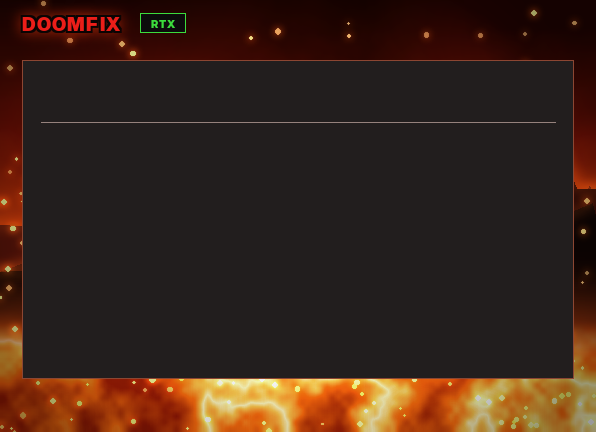
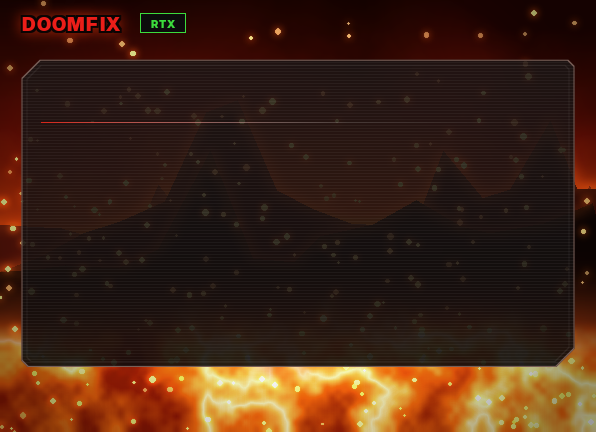
Redraw the installer panels and add the control artwork
The panels get the approved look: chamfered corners, a thin warm frame,
a see-through dark gradient with faint scanlines and an inner line. The
fire and the logo are unchanged. The heading line of the inner pages is
a red gradient; the welcome and finish pages get theirs as separate
pictures (red and green).

New pictures in installer/assets/ui, one set per background size: the
hexagonal buttons in five states without text, the path field and the
check boxes with a red tick. The installer script starts using them in
the next commit.

diff --git a/installer/assets/generate.py b/installer/assets/generate.py
@@ -1,4 +1,4 @@
-"""Generates the installer artwork: wizard backgrounds and the "DF" icon.
+"""Generates the installer artwork: wizard backgrounds, buttons and other controls, and the "DF" icon.
 
 Everything is drawn procedurally (Pillow + numpy) from fixed random seeds, so every run produces the same
 images; no third-party artwork is used. The only external asset is the Inter Display Black font (SIL OFL 1.1,
@@ -7,11 +7,16 @@ see fonts/OFL.txt), which is baked into the images and is not shipped in the ins
 Run it through scripts\\build_assets.ps1, which sets up the Python environment. Output, next to this file:
   back_welcome_<w>x<h>.png  welcome and finish pages: fire, large DOOMFIX logo and RTX tag, the content panel
   back_inner_<w>x<h>.png    other pages: fire, small DOOMFIX logo and RTX tag at the top left, the content panel
+                            with its red heading line
+  ui/<name>_<w>.png         for each background width w: the buttons (button_*, browse_*: normal, hover, pressed,
+                            focus, disabled; without text), the path field (edit), the check boxes (check_on_*,
+                            check_off_*) and the heading lines of the welcome and finish pages (line_red, line_green)
   doomfix.ico               the icon of setup.exe and doomfix_launcher.exe, 16 to 256 px
 
 The background sizes are the wizard image areas of Inno Setup 6.7 at 100, 125, 150, 175 and 200% DPI (see the
-WizardBackImageFile help topic); Setup picks the best match. The layout uses the coordinates of the 497x360
-design (installer/doomfix.iss places the panels and controls with the same numbers).
+WizardBackImageFile help topic); Setup picks the best match. The panels use the coordinates of the 497x360
+design, the controls pixels of the 596x432 client area at 100% (installer/doomfix.iss places everything with the
+same numbers).
 """
 import math
 import random
@@ -189,42 +194,212 @@ def tag(img, x_center, y, size, s, text="RTX"):
     return img
 
 
-# Layout shared with the "Look" part of installer/doomfix.iss (design units). The panels are part of the image:
-# the custom style draws transparent controls over the window background, so a panel made of a control would not
-# show behind every control.
-PANEL = (34, 30, 30)
-PANEL_BORDER = (140, 70, 50)
-SEPARATOR = (150, 130, 125)
-WELCOME_PANEL = (40, 104, 457, 306)   # welcome and finish pages
+# Layout shared with the "Look" part of installer/doomfix.iss. Two kinds of units: design units of the 497x360
+# layout (panels, labels; s = pixels per unit) and pixels of the window at 100% DPI, whose client area is 596x432
+# (button, field and chamfer sizes; p = pixels per pixel at 100%). The panels are part of the background image: the
+# custom style draws transparent controls over the window background, so a panel made of a control would not show
+# behind every control.
+WELCOME_PANEL = (40, 104, 455, 279)   # welcome and finish pages
 WELCOME_SEPARATOR_Y = 144
-INNER_PANEL = (18, 50, 479, 316)      # all other pages
+INNER_PANEL = (18, 50, 479, 306)      # all other pages
 INNER_SEPARATOR_Y = 102
 PANEL_PADDING = 16
 
+BORDER = (0x7A, 0x5F, 0x57)
+RED = (0xD8, 0x26, 0x1A)
+DARK_RED = (0x8E, 0x14, 0x0C)
+GREEN_LINE = (0x3D, 0xDC, 0x56)
+SS = 4                                # supersampling of the antialiased shapes
 
-def panel(img, box, sep_y, s):
-    d = ImageDraw.Draw(img)
-    lw = max(1, round(s))
-    x0, y0, x1, y1 = (round(v * s) for v in box)
-    d.rectangle([x0, y0, x1 - 1, y1 - 1], fill=PANEL, outline=PANEL_BORDER, width=lw)
-    sy = round(sep_y * s)
-    d.line([x0 + round(PANEL_PADDING * s), sy, x1 - round(PANEL_PADDING * s), sy], fill=SEPARATOR, width=lw)
-    return img
+
+def chamfer_points(x0, y0, x1, y1, tl, tr, br, bl):
+    """A rectangle with its corners cut at 45 degrees; tl..bl are the cut lengths along each side."""
+    return [(x0 + tl, y0), (x1 - tr, y0), (x1, y0 + tr), (x1, y1 - br), (x1 - br, y1), (x0 + bl, y1),
+            (x0, y1 - bl), (x0, y0 + tl)]
+
+
+def shape_mask(size, points, inset=0.0):
+    """Antialiased coverage (0..1, float array) of a polygon, optionally shrunk by `inset` pixels."""
+    w, h = size
+    k = int(round(inset * SS))
+    pad = k + SS  # empty margin, so that the shrinking also works where the shape touches the image edge
+    m = Image.new("L", (w * SS + 2 * pad, h * SS + 2 * pad), 0)
+    ImageDraw.Draw(m).polygon([(x * SS + pad, y * SS + pad) for x, y in points], fill=255)
+    if k > 0:
+        m = m.filter(ImageFilter.MinFilter(2 * k + 1))
+    m = m.crop((pad, pad, pad + w * SS, pad + h * SS))
+    return np.asarray(m.resize((w, h), Image.BOX), float) / 255
+
+
+def outline_mask(size, points, width):
+    """The band of `width` pixels just inside the polygon's edge."""
+    return np.clip(shape_mask(size, points) - shape_mask(size, points, width), 0, 1)
+
+
+def over(base, color, alpha):
+    """Composites a color (RGB tuple or HxWx3 array) with per-pixel alpha (HxW) over an RGB float array."""
+    a = alpha[..., None]
+    return base * (1 - a) + np.asarray(color, float) * a
+
+
+def scanlines(h, w, p, y0=0):
+    """1 = row of a scanline: 1 px lines every 3 px at 100%, scaled."""
+    step = max(2, round(3 * p))
+    lh = max(1, round(p))
+    rows = ((np.arange(h) - y0) % step) < lh
+    return np.repeat(rows[:, None], w, axis=1).astype(float)
+
+
+def vgradient(h, w, top, bottom, y0=0, y1=None):
+    """HxWx3 colors from `top` at row y0 to `bottom` at row y1."""
+    y1 = h - 1 if y1 is None else y1
+    t = np.clip((np.arange(h) - y0) / max(1, y1 - y0), 0, 1)[:, None, None]
+    col = np.asarray(top, float) * (1 - t) + np.asarray(bottom, float) * t
+    return np.repeat(col, w, axis=1)
+
+
+def panel(img, box, s, p):
+    """Dark see-through panel: chamfered corners (18 px top left and bottom right, 6 px elsewhere), 1 px frame,
+    vertical gradient, faint scanlines and a faint inner line 5 px from the edge."""
+    w, h = img.size
+    x0, y0, x1, y1 = (v * s for v in box)
+    big, small = 18 * p, 6 * p
+    lw = max(1, round(p))
+    pts = chamfer_points(x0, y0, x1, y1, big, small, big, small)
+    fill = shape_mask((w, h), pts)
+    base = np.asarray(img, float)
+    ya, yb = int(y0), int(y1)
+    color = vgradient(h, w, (28, 22, 21), (16, 12, 12), ya, yb)
+    alpha = (0.86 + 0.04 * np.clip((np.arange(h) - ya) / max(1, yb - ya), 0, 1))[:, None]
+    base = over(base, color, fill * alpha)
+    base = over(base, (255, 255, 255), fill * scanlines(h, w, p, ya) * 0.045)
+    d = 5 * p
+    inner = chamfer_points(x0 + d, y0 + d, x1 - d, y1 - d, 14 * p, 4 * p, 14 * p, 4 * p)
+    base = over(base, (255, 255, 255), outline_mask((w, h), inner, lw) * 0.06)
+    base = over(base, BORDER, outline_mask((w, h), pts, lw))
+    return Image.fromarray(base.clip(0, 255).astype(np.uint8))
+
+
+def separator_line(length, height, start):
+    """RGBA line under a heading: `start` color to faint white at 60% of the length, then fading out."""
+    t = np.linspace(0, 1, length)
+    k = np.clip(t / 0.6, 0, 1)[:, None]
+    rgb = np.asarray(start, float) * (1 - k) + np.array([255.0, 255, 255]) * k
+    a = np.where(t <= 0.6, 1 - 0.88 * np.clip(t / 0.6, 0, 1), 0.12 * (1 - (t - 0.6) / 0.4))
+    row = np.concatenate([rgb, (a * 255)[:, None]], axis=1)
+    return Image.fromarray(np.repeat(row[None], height, axis=0).clip(0, 255).astype(np.uint8), "RGBA")
+
+
+def separator_geometry(box, sep_y, s, p):
+    x0, _, x1, _ = box
+    left = round((x0 + PANEL_PADDING) * s)
+    return left, round(sep_y * s), round((x1 - PANEL_PADDING) * s) - left, max(1, round(p))
 
 
 def background(kind, w, h):
-    s = w / BASE_W
+    s, p = w / BASE_W, w / 596
     if kind == "welcome":
+        # The heading line is not part of this image: it is red on the welcome page and green on the finish page
+        # (ui/line_*.png, placed by installer/doomfix.iss).
         img = hellscape(w, h, seed=7)
         img = logo(img, "DOOMFIX", BASE_W / 2, 14, 34, s, center=True)
         img = tag(img, BASE_W / 2, 60, 11, s)
-        img = panel(img, WELCOME_PANEL, WELCOME_SEPARATOR_Y, s)
+        img = panel(img, WELCOME_PANEL, s, p)
     else:
         img = hellscape(w, h, seed=19)
         img = logo(img, "DOOMFIX", 18, 10, 16, s, stroke=5)
         img = tag(img, 136, 11, 9, s)
-        img = panel(img, INNER_PANEL, INNER_SEPARATOR_Y, s)
+        img = panel(img, INNER_PANEL, s, p)
+        x, y, length, lh = separator_geometry(INNER_PANEL, INNER_SEPARATOR_Y, s, p)
+        img = img.convert("RGBA")
+        img.alpha_composite(separator_line(length, lh, RED), (x, y))
+        img = img.convert("RGB")
     return img
+
+
+# --- Buttons and the path field ------------------------------------------------------------------
+# Drawn without text; installer/doomfix.iss writes the caption on them at run time (the captions depend on the
+# language and the page). One set per background size, named after the background width.
+
+BUTTON_W, BROWSE_W, BUTTON_H = 104, 96, 34
+EDIT_W = 410                          # inner page content width (514 px) - Browse - 8 px gap
+BUTTON_STATES = ("normal", "hover", "pressed", "focus", "disabled")
+
+
+def button_image(w, h, p, state):
+    """A stretched hexagon: the left and right sides meet in a point 10 px deep."""
+    d = 10 * p
+    pts = [(d, 0), (w - d, 0), (w, h / 2), (w - d, h), (d, h), (0, h / 2)]
+    lw = max(1, round(p))
+    fill = shape_mask((w, h), pts)
+    base = np.zeros((h, w, 3))
+    if state == "hover":
+        base = vgradient(h, w, RED, DARK_RED)
+        border = (0xFF, 0xB0, 0x8A)
+    elif state == "pressed":
+        base[:] = DARK_RED
+        border = (0xFF, 0xB0, 0x8A)
+    else:
+        base = vgradient(h, w, (0x2C, 0x24, 0x23), (0x1A, 0x15, 0x15))
+        border = (0xF0, 0xE6, 0xE2) if state == "focus" else BORDER
+    base = over(base, (255, 255, 255), scanlines(h, w, p) * 0.045)
+    base = over(base, border, np.clip(outline_mask((w, h), pts, lw) / np.maximum(fill, 1e-6), 0, 1))
+    alpha = fill * (0.45 if state == "disabled" else 1.0)
+    rgba = np.concatenate([base, (alpha * 255)[..., None]], axis=2)
+    return Image.fromarray(rgba.clip(0, 255).astype(np.uint8), "RGBA")
+
+
+def edit_frame(w, h, p):
+    """The path field: 1 px frame, 8 px chamfers at the top left and bottom right, dark fill."""
+    c = 8 * p
+    pts = chamfer_points(0, 0, w, h, c, 0, c, 0)
+    fill = shape_mask((w, h), pts)
+    base = np.zeros((h, w, 3))
+    base[:] = (0x12, 0x0E, 0x0E)
+    base = over(base, BORDER, np.clip(outline_mask((w, h), pts, max(1, round(p))) / np.maximum(fill, 1e-6), 0, 1))
+    rgba = np.concatenate([base, (fill * 255)[..., None]], axis=2)
+    return Image.fromarray(rgba.clip(0, 255).astype(np.uint8), "RGBA")
+
+
+CHECK_SIZE = 16
+
+
+def check_box(n, p, checked, state):
+    """A check box: dark square with a 1 px frame, a red tick when checked."""
+    lw = max(1, round(p))
+    pts = [(0, 0), (n, 0), (n, n), (0, n)]
+    fill = shape_mask((n, n), pts)
+    base = np.zeros((n, n, 3))
+    base[:] = (0x12, 0x0E, 0x0E)
+    border = {"hover": (0xFF, 0xB0, 0x8A), "focus": (0xF0, 0xE6, 0xE2)}.get(state, BORDER)
+    if checked:
+        tick = Image.new("L", (n * SS, n * SS), 0)
+        k = n * SS / 16
+        ImageDraw.Draw(tick).line([(3.5 * k, 8.5 * k), (6.5 * k, 11.5 * k), (12.5 * k, 4.5 * k)], fill=255,
+                                  width=max(2, round(2.2 * k)), joint="curve")
+        base = over(base, RED, np.asarray(tick.resize((n, n), Image.BOX), float) / 255)
+    base = over(base, border, outline_mask((n, n), pts, lw))
+    rgba = np.concatenate([base, (fill * 255)[..., None]], axis=2)
+    return Image.fromarray(rgba.clip(0, 255).astype(np.uint8), "RGBA")
+
+
+def ui_images(w):
+    """{file name: image} for the background width w."""
+    s, p = w / BASE_W, w / 596
+    bh = round(BUTTON_H * p)
+    out = {}
+    for state in BUTTON_STATES:
+        out[f"button_{state}_{w}.png"] = button_image(round(BUTTON_W * p), bh, p, state)
+        out[f"browse_{state}_{w}.png"] = button_image(round(BROWSE_W * p), bh, p, state)
+    out[f"edit_{w}.png"] = edit_frame(round(EDIT_W * p), bh, p)
+    for checked in (False, True):
+        for state in ("normal", "hover", "focus"):
+            out[f"check_{'on' if checked else 'off'}_{state}_{w}.png"] = check_box(round(CHECK_SIZE * p), p, checked,
+                                                                                    state)
+    _, _, length, lh = separator_geometry(WELCOME_PANEL, WELCOME_SEPARATOR_Y, s, p)
+    out[f"line_red_{w}.png"] = separator_line(length, lh, RED)
+    out[f"line_green_{w}.png"] = separator_line(length, lh, GREEN_LINE)
+    return out
 
 
 # --- Icon ---------------------------------------------------------------------------------------
@@ -274,6 +449,14 @@ def main():
             path = HERE / f"back_{kind}_{w}x{h}.png"
             background(kind, w, h).save(path, optimize=True)
             print(f"{path.name}: {path.stat().st_size // 1024} KB")
+    ui = HERE / "ui"
+    ui.mkdir(exist_ok=True)
+    total = 0
+    for w, _ in SIZES:
+        for name, im in ui_images(w).items():
+            im.save(ui / name, optimize=True)
+            total += (ui / name).stat().st_size
+    print(f"ui/: {len(list(ui.glob('*.png')))} files, {total // 1024} KB")
     icons = [icon_image(sz) for sz in ICON_SIZES]
     ico = HERE / "doomfix.ico"
     icons[-1].save(ico, format="ICO", sizes=[(sz, sz) for sz in ICON_SIZES], append_images=icons[:-1])
